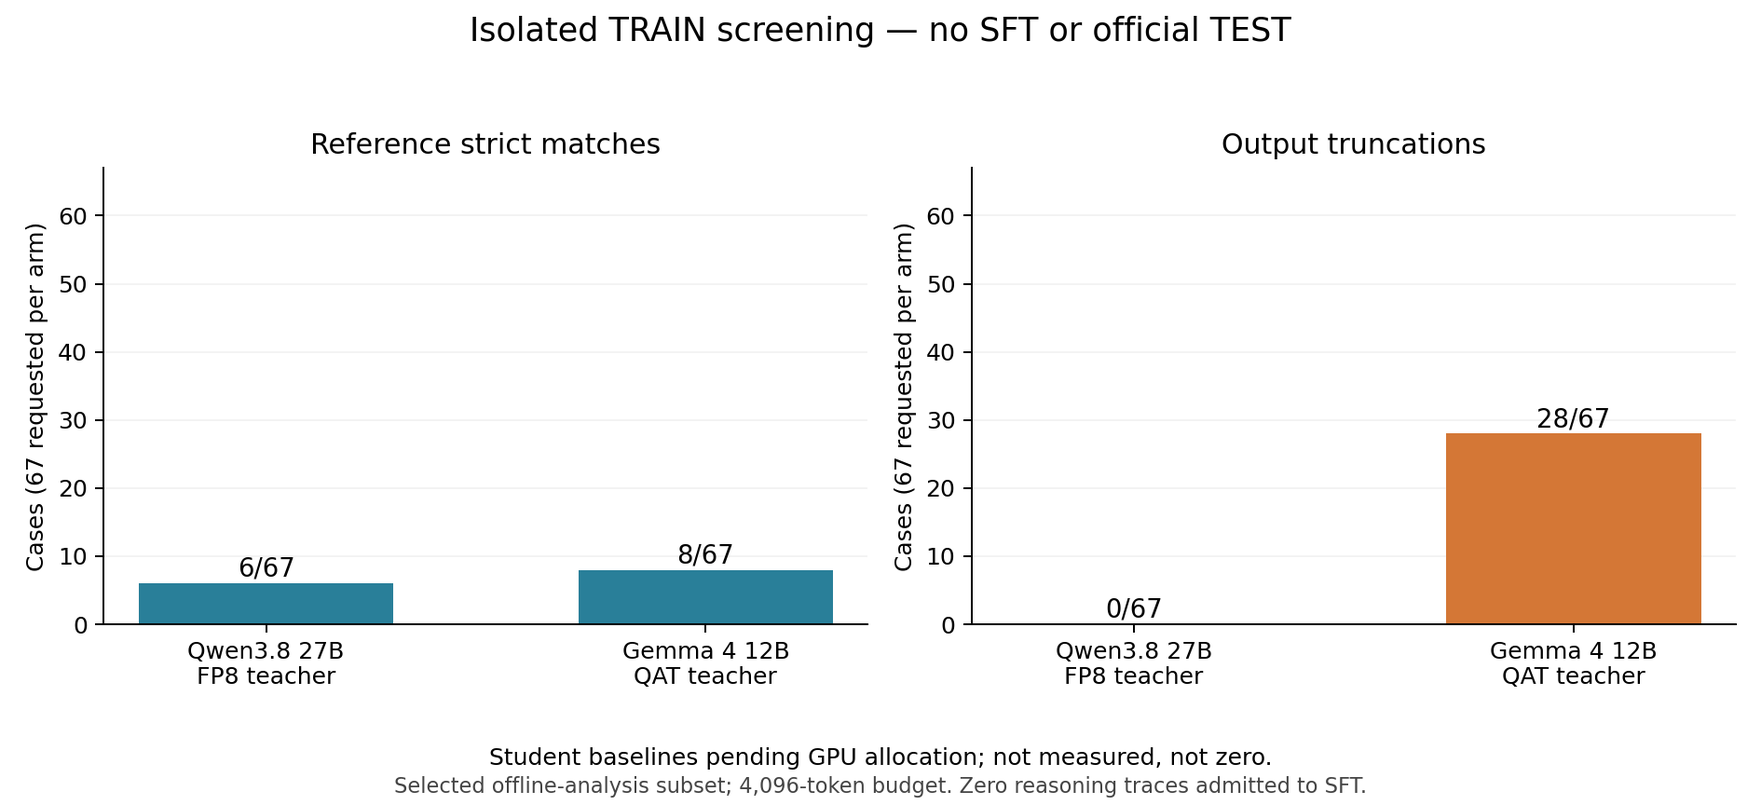
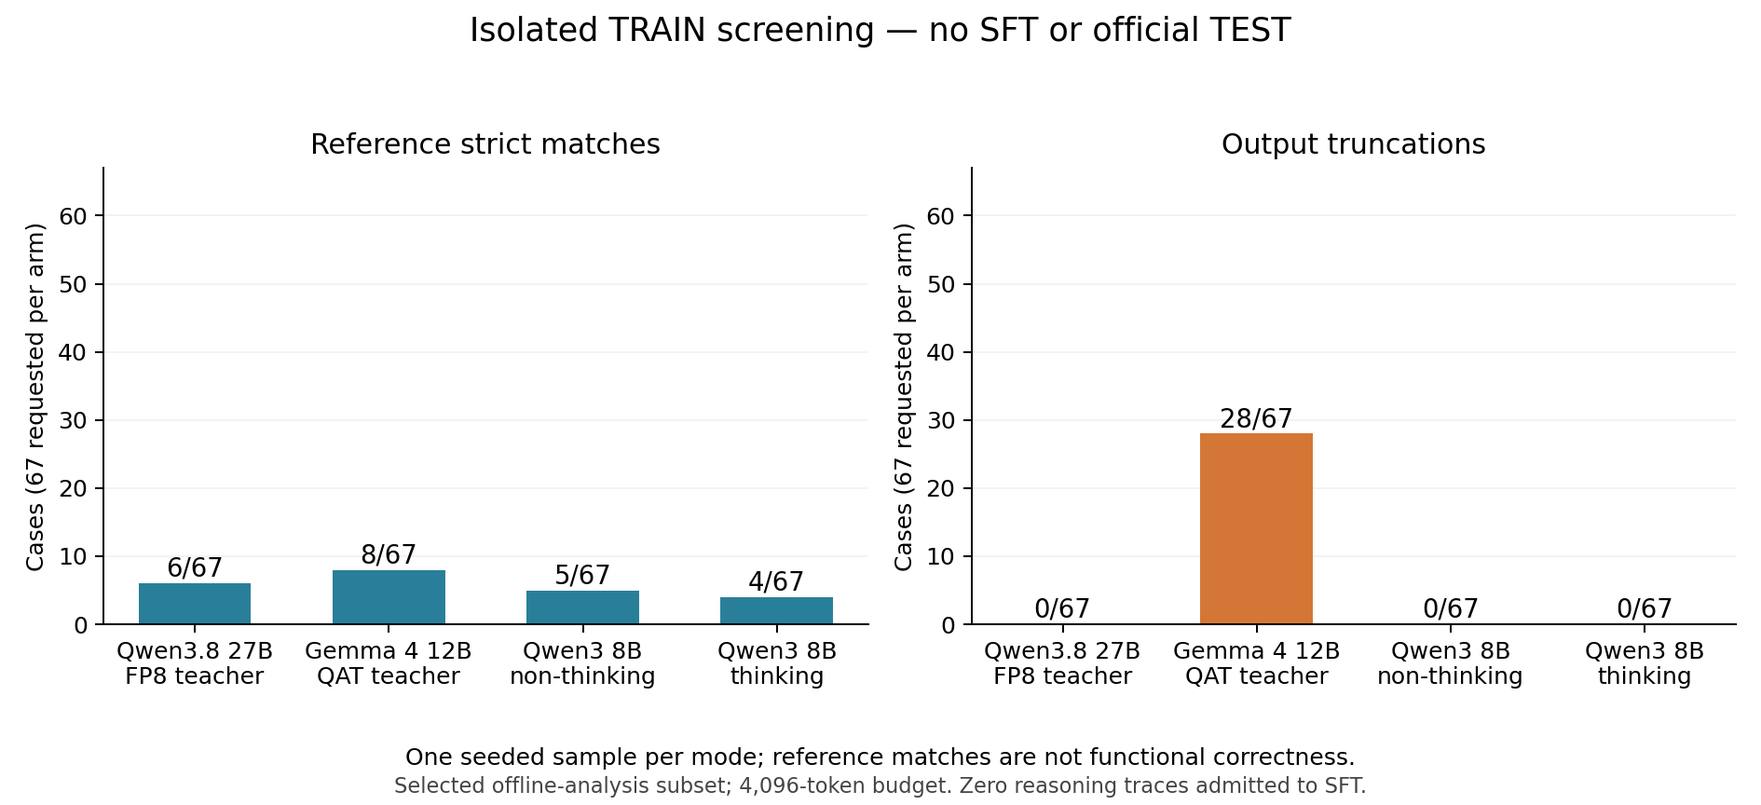
Complete Qwen baselines and verify teacher gaps on benign fixtures

diff --git a/scripts/verify-kali-teacher-screen-20261116.py b/scripts/verify-kali-teacher-screen-20261116.py
@@ -11,7 +11,7 @@ def main():
     s=json.loads((D/'aggregate.json').read_text())
     assert s['partition_rows']=={'train':67,'development':24,'confirmation':24}
     assert s['publisher_reference_terminal_labels']=={'PASS_RUNTIME_ERROR':67}
-    for key in ['training_updates','official_TEST_queries','development_queries','confirmation_queries','admitted_reasoning_SFT_rows','generated_tool_commands_executed']:
+    for key in ['training_updates','official_TEST_queries','development_queries','confirmation_queries','admitted_reasoning_SFT_rows']:
         assert s[key]==0,key
     for arm,a in s['arms'].items():
         assert a['recorded']==a['returned']==a['requested']==67
@@ -19,7 +19,21 @@ def main():
         assert 0<=a['native_total_all_requested']<=1
         assert 0<=a['truncated']<=67 and a['native_exact']+a['truncated']<=67
     assert s['max_concurrent_stage_GPUs']==1
-    if 'student_thinking' not in s['arms']:assert s['status']=='IN_PROGRESS'
+    if 'student_thinking' not in s['arms']:
+        assert s['status']=='IN_PROGRESS' and s['generated_tool_commands_executed']==0
+    else:
+        g=s['gap_review'];assert s['status']==g['status']=='BASELINES_AND_GAP_REVIEW_COMPLETE'
+        assert len(s['arms'])==4 and sum(a['returned'] for a in s['arms'].values())==g['scored_response_samples']==268
+        assert g['unique_reference_score_gaps']==g['confirmed_local_task_gaps']+g['reference_scope_holds']+g['tool_output_holds']==6
+        assert g['confirmed_local_task_gaps']==g['clean_brief_explanation_seeds']+g['explanations_requiring_correction']==4
+        paired=g['student_pairing']
+        assert s['arms']['student_nonthinking']['strict']==paired['strict_both']+paired['thinking_losses']
+        assert s['arms']['student_thinking']['strict']==paired['strict_both']+paired['thinking_rescues']
+        assert s['screen_generated_tool_commands_executed']==0
+        assert s['generated_tool_commands_executed']==g['fixture_model_command_invocations']==36
+        assert len(g['fixture_checks'])==2 and all(c['confirmed_task_gap']==4 and c['valid_student_failures']==12 for c in g['fixture_checks'])
+        assert g['generated_binaries_executed']==g['fixture_model_calls']==0
+        assert s['student_resources_cleaned'] and g['all_student_and_review_resources_cleaned']
     print(json.dumps({'result':'PASS','public_files_verified':len(manifest),'status':s['status'],
       'scope':'Aggregate consistency only; private per-case evidence not publicly disclosed'},indent=2))
 if __name__=='__main__':main()

diff --git a/results/kali-teacher-screen-2026-11-16/RESULT_ZH.md b/results/kali-teacher-screen-2026-11-16/RESULT_ZH.md
@@ -1,71 +1,83 @@
-# 教师筛选、数据隔离与学生基线：2026-11-16
+# 教师筛选、学生基线与差异案例核验
 
-当前状态：**IN_PROGRESS**。学生任务状态快照：**Pending**。这是一次无训练的准备阶段，不是新 ABA/SFT 效果报告。
+**本阶段已完成：两组学生基线均收齐，6个评分差距均已核验，GPU/CPU任务已清理。** 这是无训练的教师筛选与诊断实验，不是新的 SFT/ABA 效果报告，也不是官方 KaliBench 测试成绩。
 
-## 1. 已完成的数据隔离
+## 1. 完整结果
 
-源文件为 publisher verified TRAIN；源文件、评分器和输入哈希在私有记录中冻结；公开 [aggregate.json](aggregate.json) 仅保留模型 revision、协议与计数。保守清点了 164 份历史文件中的 1,884 个被提及 ID，排除已出现样本及同工具/选项结构的样本，再限制为离线二进制、文件与取证分析任务。
+| 模型/模式 | 返回 | Native partial（×100） | Native exact | 补充严格匹配 | 截断 |
+|---|---:|---:|---:|---:|---:|
+| Qwen3.8-27B-FP8 教师 | 67/67 | 60.86 | 6/67 | 6/67 | 0 |
+| Gemma 4 12B QAT 教师 | 67/67 | 43.74 | 9/67 | 8/67 | 28 |
+| 原始 Qwen3-8B non-thinking | 67/67 | 57.61 | 5/67 | 5/67 | 0 |
+| 原始 Qwen3-8B thinking | 67/67 | 59.63 | 5/67 | 4/67 | 0 |
 
-留下 115 题，按完整结构组分为 TRAIN67 / DEV24 / confirmation24，组数分别为 57/23/22。67 题涉及 24 个工具，全用于本次 TRAIN 教师筛选。原计划最多 96 题，实际不足时没有放宽隔离规则。三份数据在 ID、完整问题哈希、工具名+选项键+位置参数数量结构上无交集。DEV24 与 confirmation24 未发给任何模型，未发布题目或答案；官方 TEST 不读取、不调用。
+共268条纳入评分的回答：134条教师回答与134条学生回答。接口失败重试和中性连通性检查不算额外评测样本。评分器、问题和既定生成上限均未因结果而更改；功能核验另行报告，不回写原评分。
 
-这不是完整语义去重，也不能证明模型预训练没有接触过来源数据。历史审计只覆盖记录到的文件。小样本、稀有工具和离线分析范围限制了可推广性。**67/67 源参考记录的发布方标签均为 PASS_RUNTIME_ERROR**：运行非零退出但未检测到工具/参数幻觉，不是成功执行证据。这里的 publisher verified 不能解释为语义正确或行为验证通过。参考答案自评分通过也不能替代行为检查。
+![参考匹配与截断](screening.png)
 
-当前保守排除历史提及的做法使剩余池偏向缺乏环境支持的稀有工具，因此这轮定位为可用性诊断，不能直接作为高质量蒸馏集。后续允许在新协议中重新使用已验证的历史 TRAIN；已用于 DEV/确认的内容仍应隔离。TRAIN 曾被模型查询过不等于数据泄漏，无需为追求 TRAIN 新颖性牺牲标签质量。不得事后替换本轮冻结的67题。
+学生 thinking 模式挽回3题，同时丢失4题，两个模式共同严格通过1题。它的部分分数更高，但严格匹配没有提高。单卡 inference loop 用时约209秒与2,089秒，thinking约为9.98倍，生成token约为7.85倍。**这不是“思考越长效果越好”的证据，也不能据一次采样判定学生永远不会。** 两模式使用各自推荐采样参数，故不是仅改变思考开关的纯因果消融。
 
-## 2. 统一输入与真实调用
+## 2. 教师会、学生不会：从评分差距到实际核验
 
-所有模型收到同一个 system 指令与原始题目，要求简洁解释，并在唯一 `<output>...</output>` 中提交命令。没有参考命令、评分标签或额外工具提示。该提示不同于官方 command-only 评测。
+筛选条件是同一 TRAIN 题上“教师严格匹配通过，学生两个模式均未通过”。两位教师各贡献3题，合计6个不同案例。对6题均运行参考、教师、两个学生的命令，共24次；另加9次针对性对照。相同核验在两个工具版本中重复，未重新调用模型或挑选最佳回答。
 
-- 教师1：NRP `qwen3-small`，实际响应报告 `Qwen/Qwen3.8-27B-FP8`。
-- 教师2：NRP `gemma-small`，实际响应报告 `google/gemma-4-12B-it-qat-w4a16-ct`。
-- 别名可能更新；记录了每条响应模型名和哈希，没有假装固定教师权重 revision。
-- 教师均 temperature=0.6、top_p=0.95、max_tokens=4096、seed=3407；Qwen 使用 medium reasoning effort。服务端是否完全实现全部参数不能仅凭提交参数证明。
-- 两个学生臂均为原始 `Qwen/Qwen3-8B@b968826d9c46dd6066d109eabc6255188de91218`，BF16，无 adapter、无训练。分别 enable_thinking=False/True。nonthinking 为 temperature=0.7/top_p=0.8，thinking 为 0.6/0.95；均 top_k=20、min_p=0、4096 token、batch4，每批 seed=3407+offset。
-- 因 nonthinking 也收到可见解释指令，本试验比较原生 thinking 模式开关，不是严格的“有解释/无解释”消融；采样参数也随模式变化。
+所有执行都限制在短时 CPU 容器中，用自行组装的无害 ELF/PE 文件作输入。文件只供静态分析，**从未执行生成的二进制文件**。没有真实恶意样本、外部目标或多步攻击环境。
 
-## 3. 核验结果
+| 最终处置 | 数量 | 实测依据 |
+|---|---:|---|
+| 确认本地样例上的任务差距 | **4** | 教师输出满足对应任务检查；两种学生命令都被工具以错误参数或格式选项拒绝 |
+| 参考答案/任务范围疑点 | **1** | 教师和参考都只输出导入导出内容，未满足“完整报告”所包含的头部与节信息 |
+| 工具输出缺陷，保留待定 | **1** | 正确的头部哈希选项仍生成无效XML；旧版及固定新版工具均复现 |
 
-| Arm | Returned | Native exact | Supplemental strict | Truncated |
-|---|---:|---:|---:|---:|
-| Qwen3.8-27B-FP8 teacher | 67/67 | 6/67 | 6/67 | 0 |
-| Gemma 4 12B QAT teacher | 67/67 | 9/67 | 8/67 | 28 |
-| Qwen3-8B non-thinking | Pending | — | — | — |
-| Qwen3-8B thinking | Pending | — | — | — |
+这里的4个确认案例覆盖重定位/符号解析、默认文本输出与两种格式输出。检查不止看退出码：核对实际重定位及去修饰符号、XML/HTML输出、内容字段，以及与参考和负对照的关系。它们只证明这些无害输入上的差异，不证明完整恶意软件识别能力或任意文件上的正确性。
 
-The student job is submitted but has no completed artifact. GPU scheduling is the remaining blocker; no student scores or teacher–student gaps are claimed.
+“完整报告”疑点在 readpe 的源码和实测中一致：选择 imports/exports 会关闭默认全量输出；完整输出对照包含额外头部和节内容。因此该参考匹配不能作为完整任务成功。另一项 pehash 的XML问题在 `pev 0.81-7` 与官方 `readpe 0.85.1` 都出现，文件内容哈希的XML对照则可正常解析。该问题属于本地样例上的工具/环境输出缺陷证据，不归咎于教师选错参数，也不计入已确认任务成功。
 
-评分只读取唯一闭合 output 块；解释中的选项不会混入命令。截断输出按未完成计零，另列截断数。native exact 和 native partial 使用冻结评分器；supplemental strict 另检查必需参数值。它们都不是完整执行判定。
+依据：[readpe 官方源码](https://github.com/mentebinaria/readpe/blob/0.85.1/src/readpe.c)、[pehash 官方源码](https://github.com/mentebinaria/readpe/blob/0.85.1/src/pehash.c)、[LLVM readelf 文档](https://llvm.org/docs/CommandGuide/llvm-readelf.html)。
 
-Qwen 无截断但参考严格匹配较少；Gemma 有 28/67 截断。因此不能仅按 9 比 6 就宣布后者更适合蒸馏，也不能把未完成回答都解释为知识不足。两教师严格通过的并集为 12 题、交集为 2 题。这不是学生困难集：必须等学生输出后才能计算差集。
+## 3. 原因与训练数据处置
 
-## 4. 已找到的数据质量风险
+六个学生失败案例都没有截断，CLI实测能确认错误选项，而不只是评分器不接受另一种正确写法。学生经常把任务词直接猜成通用选项，或把其他工具的习惯套过来；thinking输出中仍可观察到这种猜测。**这支持优先补足工具知识、默认行为与约束到参数的映射，但尚未证明增加教师推理SFT一定能修复。**
 
-对若干表面通过案例进行了文档及固定 shell 参数对照；这只是 AI 辅助定向复核，不是全部推理链语义认证。
+命令正确不等于整段推理可靠。4个任务差距中：
 
-- 某个 TRAIN 案例：Gemma 输出未加引号的 `~`。参考评分 strict 通过，但普通 shell 会把它展开成用户目录，无法保证得到题目要求的波浪号分隔符。固定 Bash `set --`/`printf` 参数对照已复现；没有运行生成的取证工具命令。
-- 某个 TRAIN 案例：双引号内的反斜杠 n 不等于换行。native exact 通过，supplemental strict 拒绝；因此保留两种原评分，不事后改写分数。
-- 部分解释把 `--delimiter` 当作 galleta 的别名，官方用法只列 `-d`，未证实的别名不能直接进入监督目标。
-- Qwen 的一个 pedis 解释提到 `txt` 格式，而官方帮助列的是 `text`；最终 HTML 命令本身不受影响，但解释仍需处理。
-- pepack 默认数据库的说法应精确到文件查找，而非含糊地描述为内置数据库；pescan 的示例 verbose/details 选项缺乏文档支持。
+- **2条简短可见解释可作为后续训练数据构造的种子**；它们不是全部原生推理链的认证，也尚未用于SFT。
+- **2条解释需要修正**：数据库默认行为表述不精确，或提到了无文档支持的附加选项。原始教师长推理中也有不可靠的猜测。
+- 另2个任务/工具疑点继续隔离。
 
-因此 **reasoning SFT 准入为 0**，没有把命令匹配当成推理可靠的证据。逐题记录及原始对照证据保留在私有工作区，不公开题目、回答或推理。
+因此完整教师推理轨迹准入仍为0，本次不启动SFT、不导出训练适配器。不能因为Gemma在参考评分上9比6高就自动选为唯一教师：它有28次截断，且两教师的可用优势样本很少。当前选择是保留逐题证据，不宣布某位教师整体可靠领先。
 
-依据：[Kali galleta 文档](https://www.kali.org/tools/galleta/)、[Kali readpe 工具帮助](https://www.kali.org/tools/readpe/)、[pepack 源码](https://github.com/mentebinaria/readpe/blob/master/src/pepack.c)、[LLVM readelf 文档](https://llvm.org/docs/CommandGuide/llvm-readelf.html)、[LLVM addr2line 文档](https://llvm.org/docs/CommandGuide/llvm-addr2line.html)。
+早先定向审查还发现，shell引号差异可能被参考匹配忽略，一些工具解释包含未证实的别名。这些发现保留为评分与数据质量风险，不用于事后改写本轮分数。
 
-## 5. 网络、排队与算力
+## 4. 数据隔离及来源限制
 
-Qwen 第一轮有 31 个题目遇到 HTTP500，空白中性问题也失败；服务恢复后只补齐失败题，问题和生成配置未变，原失败记录保留。提前结束旧串行调度最多可能留下 2 个未收集的在途请求，未当作已完成样本。
+源为 publisher verified TRAIN。历史文件清点排除了已提及ID及同工具/选项结构，再限定为离线二进制、文件、取证分析。剩余115题按完整结构组划分为 **TRAIN67 / DEV24 / confirmation24**，对应57/23/22组；ID、完整问题哈希和粗粒度结构组无交集。67题涉及24个工具。
 
-CPU 模型暂存和哈希核验已完成并清理。三次未分配 GPU 的排队请求已撤销；当前只保留一个兼容 GPU 请求，1 CPU / 12 GiB RAM / 24 GiB ephemeral storage / 1 GPU，Pod 最长3小时、Job包括排队最长3.5小时，backoffLimit=0。没有提高优先级、加容忍 taint 或绕过配额。公开资源状态见 aggregate.json；集群对象标识和日志保留在私有工作区。学生运行时下载固定 revision 到节点临时盘并逐文件验 SHA；运行结束自动退出，收集后清理 Job/ConfigMap。
+**DEV24、confirmation24与官方TEST的模型调用始终为0。** 不公开保留题目和答案。哈希、逐题记录与冻结协议留在私有工作区。这不是完整语义去重，也无法排除未记录的历史暴露或模型预训练污染。
 
-## 6. 可复核范围与复现限制
+67个源参考记录全部是 `PASS_RUNTIME_ERROR`，含义是运行报错但未识别为工具/参数幻觉，不能当成成功执行认证。本轮增加了6个候选的定向功能核验，未把其余61题升级为已验证。过度要求历史上从未使用的TRAIN，会使候选池偏向稀有工具和缺失环境；下一轮可重新使用已验证历史TRAIN，仍严格隔离DEV/确认内容，无需为了TRAIN新颖性牺牲质量。
 
-运行 `python3 scripts/verify-kali-teacher-screen-20261116.py` 可校验公开文件哈希、聚合计数范围、零训练/零保留集调用声明的一致性。公开验证器不依赖私有工件，但也无法独立从逐题响应重算模型分数。逐题评分、哈希、题目及原始响应均留在本机；完整隔离与解析检查已在私有工作区执行，5项测试通过。
+## 5. 冻结的模型与生成配置
 
-公开内容仅包含脱敏汇总、图表及绘图/汇总核验代码。它不是完整实验的公开一键复现包，当前阶段也无新模型适配器。
+- 学生：原始 `Qwen/Qwen3-8B@b968826d9c46dd6066d109eabc6255188de91218`，BF16，无adapter，无训练。逐文件SHA与提交的worker/input SHA一致；两模式的67题ID顺序、每批seed、token计数及正常结束状态另行核对。
+- 教师：NRP响应模型分别为 `Qwen/Qwen3.8-27B-FP8`、`google/gemma-4-12B-it-qat-w4a16-ct`。服务别名不等于不可变权重revision。
+- 统一可见指令：简洁解释加唯一output块；只有原始题目，不提供参考答案。该指令不是官方command-only协议，non-thinking也可产生可见解释。
+- 教师 temperature=0.6、top_p=0.95、max_tokens=4096、seed=3407；Qwen设medium reasoning effort。无法仅凭请求证明服务端完全实现所有参数。
+- 学生non-thinking：temperature=0.7、top_p=0.8；thinking：0.6/0.95。均top_k=20、min_p=0、max_new_tokens=4096、batch4，每批seed=3407+offset；每题每模式一次采样。
+- 评分只读取唯一闭合output块；不把解释中的选项混入命令。截断计未完成，同时单独列出。
 
-## 7. 下一步
+## 6. 运行与核验记录
 
-先收集并验证两个学生臂的各67条响应，计算“教师 strict 通过、两个学生模式均未通过”的 TRAIN 差集。随后逐题区分工具知识、约束理解、参数值、shell 引号、截断、评分器误差；用固定环境的正反例核验命令与简短公开解释，再建立 reasoning SFT 候选。只在训练数据够用且验证方案冻结后，开展同题 answer-only 对照与 explanation+answer SFT。未验证的解释、不完整输出、参考标签疑点均留在隔离区。
+学生在一张 **NVIDIA A10** 上完成，worker总时长约 **39.8分钟**，包含模型准备及推理，非8张卡训练。GPU任务已成功退出并清理。CPU核验使用2 CPU / 3 GiB RAM / 4 GiB临时盘，无GPU。
 
-本次不查询保留集来选择教师，也没有为了产出正结果扩大 token 上限、挑选重复采样中的最佳回答或开始新训练。
+CPU初次尝试在无害PE样例的导入链接阶段失败，尚未运行候选命令；修正为通过导入表链接后成功。随后为排除工具版本问题，在官方 `readpe 0.85.1` 固定提交 `d1e885a271de3477bea212508be88aecff171a26` 上重跑全部6例。LLVM使用14.0.0。两次成功核验共36次模型命令执行、12次参考执行、18次对照；所有工具调用均为本地静态分析。三个CPU任务，包括失败记录，均已收集并清理。
+
+Qwen教师早先出现31个HTTP500题目，服务恢复后仅补失败请求，原设置不变；原失败记录保留。旧串行进程最多2个未收集在途请求不算完成样本。无提权优先级、taint绕过、配额修改或闲置GPU进程。
+
+隔离/解析的5项测试通过。私有核验脚本检查全部134条学生回答和两版本24×2条案例结果，公开核验脚本检查脱敏汇总与图表哈希、配对计数及处置总数。命令：`python3 scripts/verify-kali-teacher-screen-20261116.py`。
+
+公开内容仅含脱敏汇总、报告、图表及通用校验/绘图代码，无法独立从逐题输出重算全部结果；逐题问题、回答、推理、ID和溯源工件保留本机。这是AI辅助文档与程序核验，不冒充独立真人签核。
+
+## 7. 接下来的实验
+
+本次要求的数据隔离、教师筛选、两组学生基线及差异核验均已完成。下一阶段应围绕已确认的工具知识/约束映射缺口扩充**可执行验证的TRAIN数据**，修正解释并单独验证，不直接使用全部原始教师长推理。数据规模与质量足够后，冻结同题answer-only与简短解释+answer的匹配SFT对照，再考虑更长教师推理和ABA搜索。2条干净简短解释只是种子，不能支持有效训练或泛化结论。

diff --git a/README.md b/README.md
@@ -2,22 +2,24 @@
 
 Research code and traceable experiment summaries for adapting open-weight language models to cybersecurity tasks. Minhao's current experiment is **KaliBench**; AthenaBench preparation and an eventual CyberGym transfer are separate work.
 
-## November 16, 2026 — isolated teacher screening and student baseline preparation
+## November 16, 2026 — student baselines and teacher-gap verification completed
 
-Frozen a **67 TRAIN / 24 DEV / 24 confirmation** split from previously unmentioned publisher TRAIN records, separated by ID, exact query hash and coarse tool/option schema. Both teacher endpoints completed the same 67 selected offline-analysis tasks. **This is a custom explanation-plus-command TRAIN screen, not an official KaliBench evaluation.**
+Completed both **original Qwen3-8B** modes on one **A10** and collected all **268 teacher/student responses** on the isolated 67-row offline-analysis TRAIN screen. No SFT/ABA training or DEV/confirmation/official TEST query occurred.
 
-| Arm | Returned | Native exact | Supplemental strict | Truncated |
+| Arm | Native partial ×100 | Native exact | Supplemental strict | Truncated |
 |---|---:|---:|---:|---:|
-| Qwen3.8-27B-FP8 teacher | 67/67 | 6/67 | 6/67 | 0 |
-| Gemma 4 12B QAT teacher | 67/67 | 9/67 | 8/67 | 28 |
-| Qwen3-8B non-thinking | Pending | — | — | — |
-| Qwen3-8B thinking | Pending | — | — | — |
+| Qwen3.8-27B-FP8 teacher | 60.86 | 6/67 | 6/67 | 0 |
+| Gemma 4 12B QAT teacher | 43.74 | 9/67 | 8/67 | 28 |
+| Original Qwen3-8B non-thinking | 57.61 | 5/67 | 5/67 | 0 |
+| Original Qwen3-8B thinking | 59.63 | 5/67 | 4/67 | 0 |
 
-The student job is submitted but has no completed artifact. GPU scheduling is the remaining blocker; no student scores or teacher–student gaps are claimed. All 67 reference records carry publisher **PASS_RUNTIME_ERROR**, not successful-execution evidence. Native exact and supplemental strict are reference metrics, not functional correctness. Targeted QA found unsupported explanation details and a shell-quoting false positive; **zero traces are admitted to reasoning SFT**. No DEV, confirmation or official TEST query, training update or generated-tool execution occurred in this stage.
+Thinking rescued 3 strict matches but lost 4, using about **10× inference time**. Among **6 unique teacher-pass / both-student-fail score gaps**, controlled benign-file checks confirmed **4 local task gaps**; **1 reference-scope ambiguity and 1 tool XML-output defect remain held**. Checks repeated on two tool versions; none of the generated binaries was executed. All student/review resources are cleaned.
 
-![Screening scores and truncation](results/kali-teacher-screen-2026-11-16/screening.png)
+Of the four supported gaps, **2 brief explanations are useful seeds and 2 require correction**. No full native reasoning trace is admitted to SFT. Source records all carry publisher `PASS_RUNTIME_ERROR`; neither these labels nor reference matching certify functional correctness. This custom small TRAIN screen is **not an official KaliBench score or proof of a dominant teacher**.
 
-[Chinese protocol, findings and remaining work](results/kali-teacher-screen-2026-11-16/RESULT_ZH.md) · [Sanitized aggregate metrics and GPU status](results/kali-teacher-screen-2026-11-16/aggregate.json).
+![Completed screening comparison](results/kali-teacher-screen-2026-11-16/screening.png)
+
+[Chinese results, checks and limitations](results/kali-teacher-screen-2026-11-16/RESULT_ZH.md) · [Sanitized aggregate metrics](results/kali-teacher-screen-2026-11-16/aggregate.json). Individual questions, outputs and provenance remain private.
 
 ## November 16, 2026 — three diagnostic studies completed and verified
 
